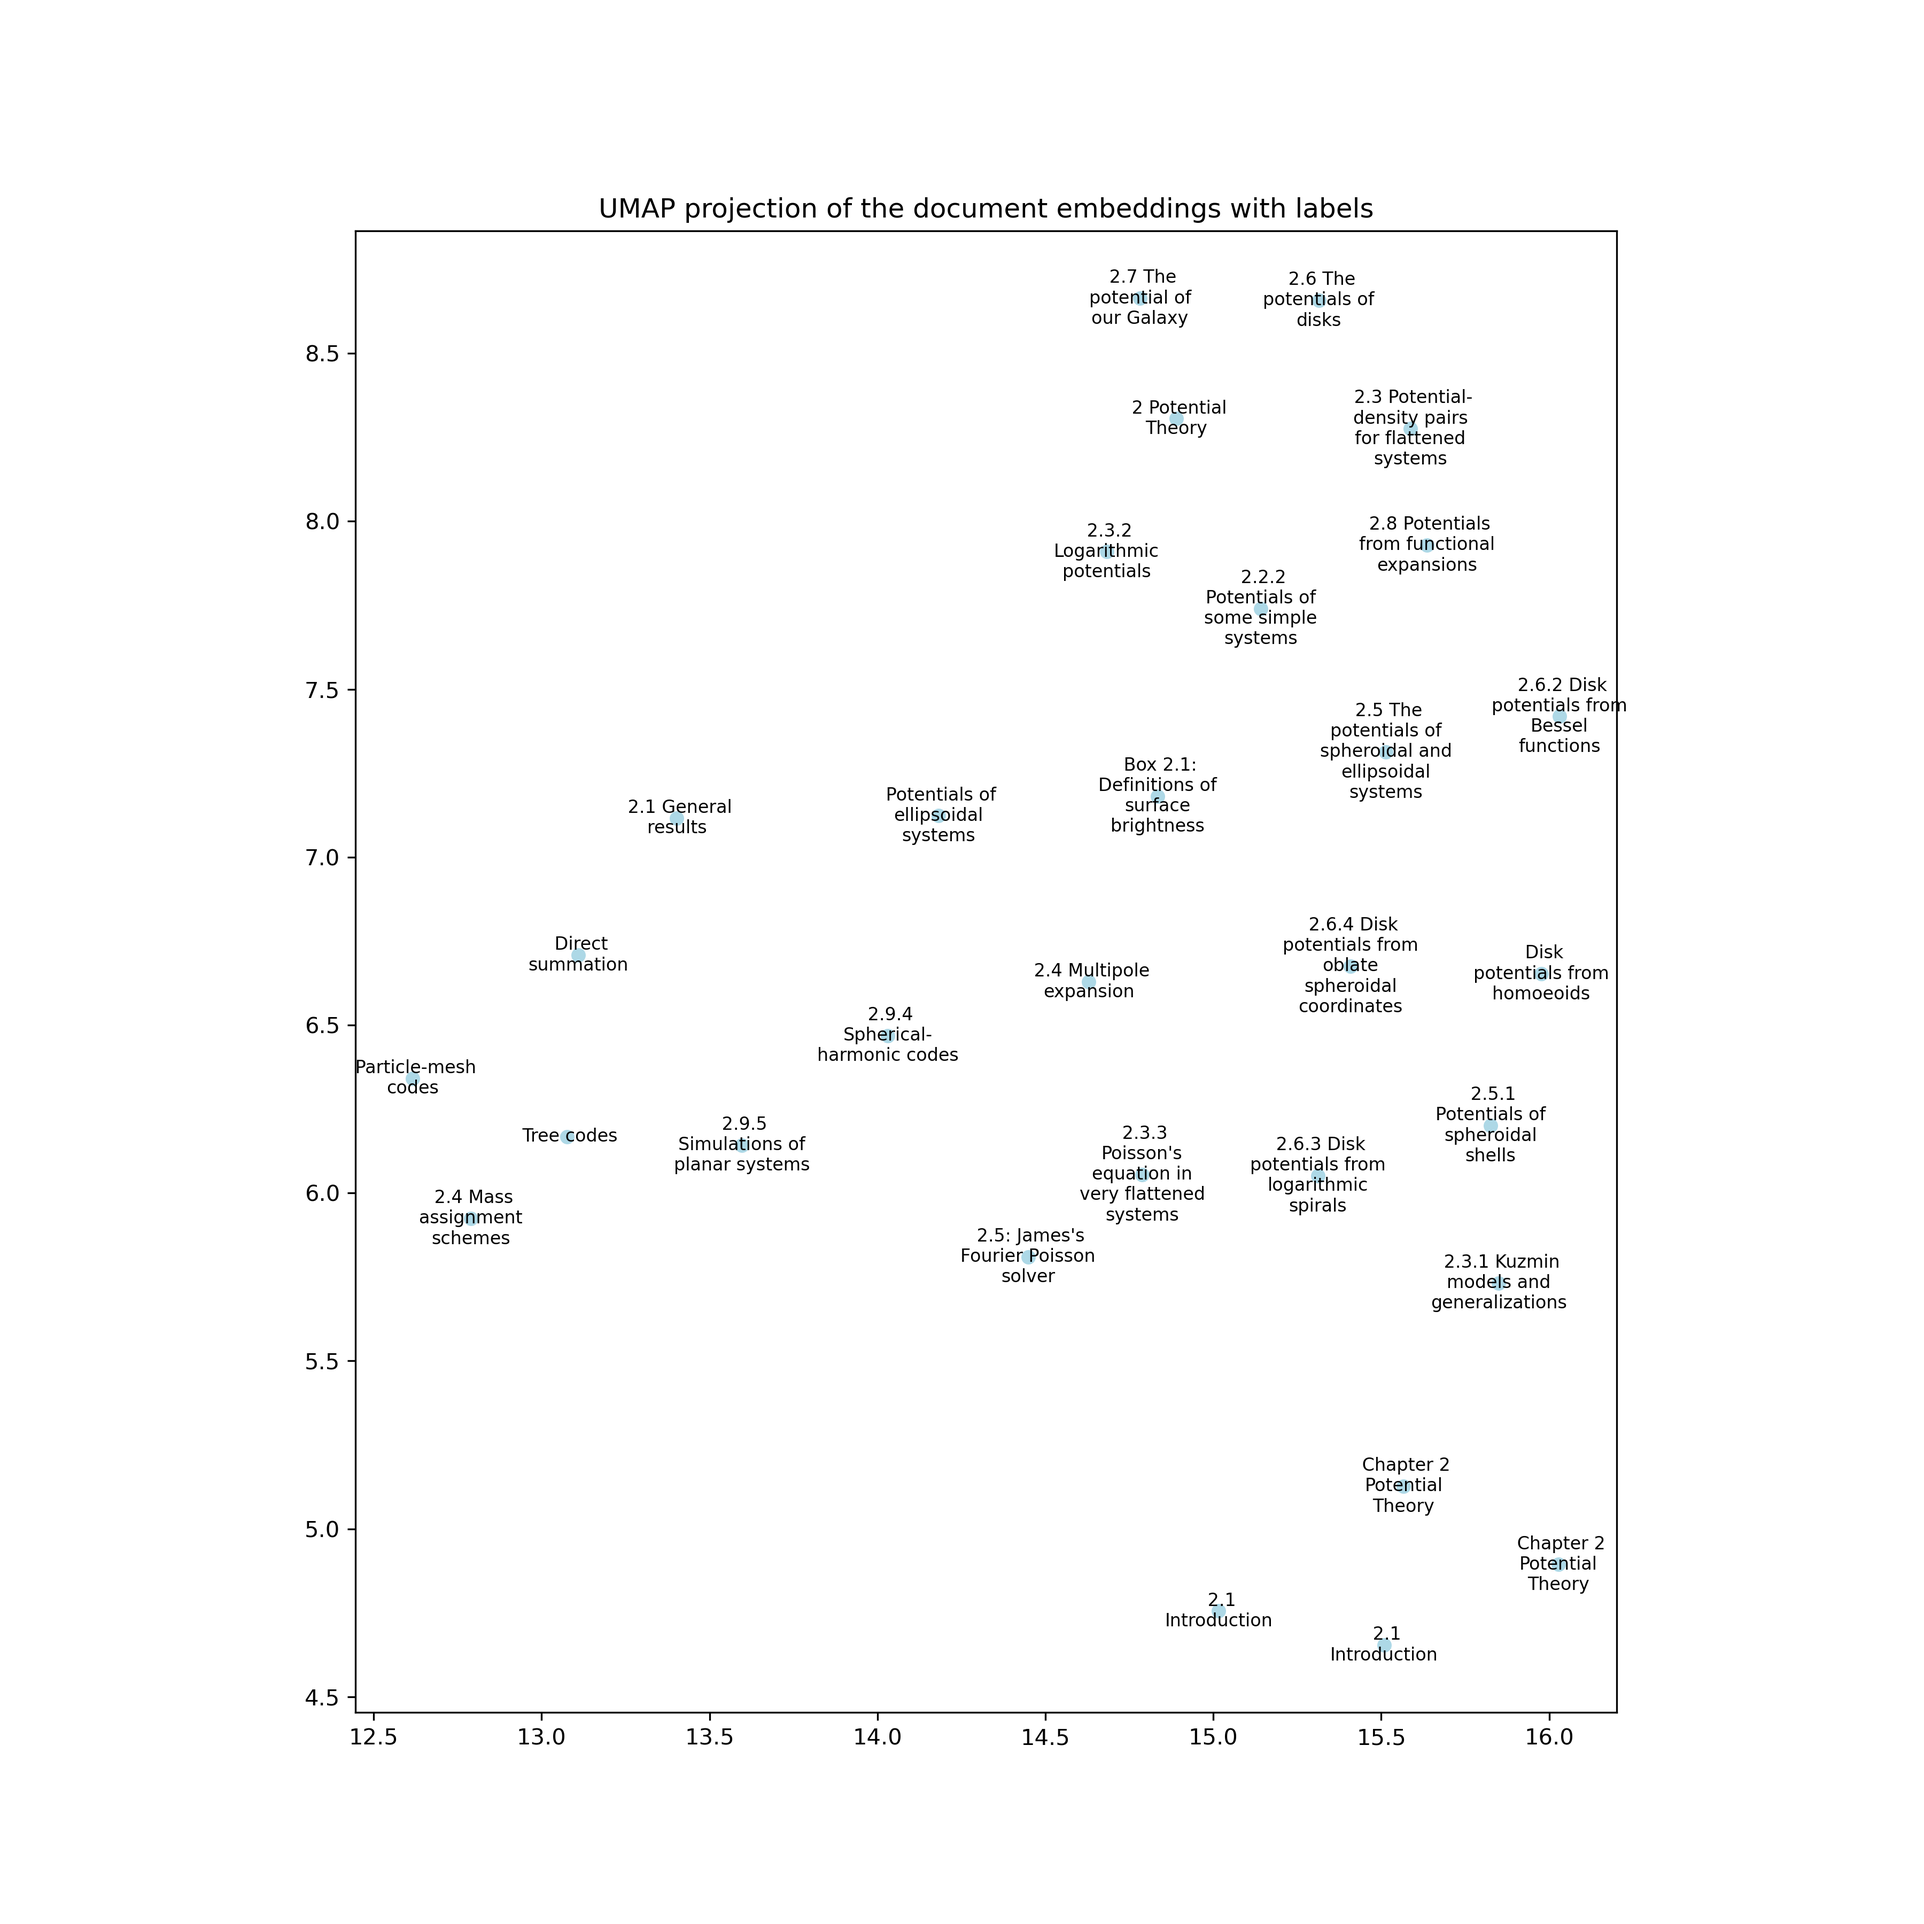
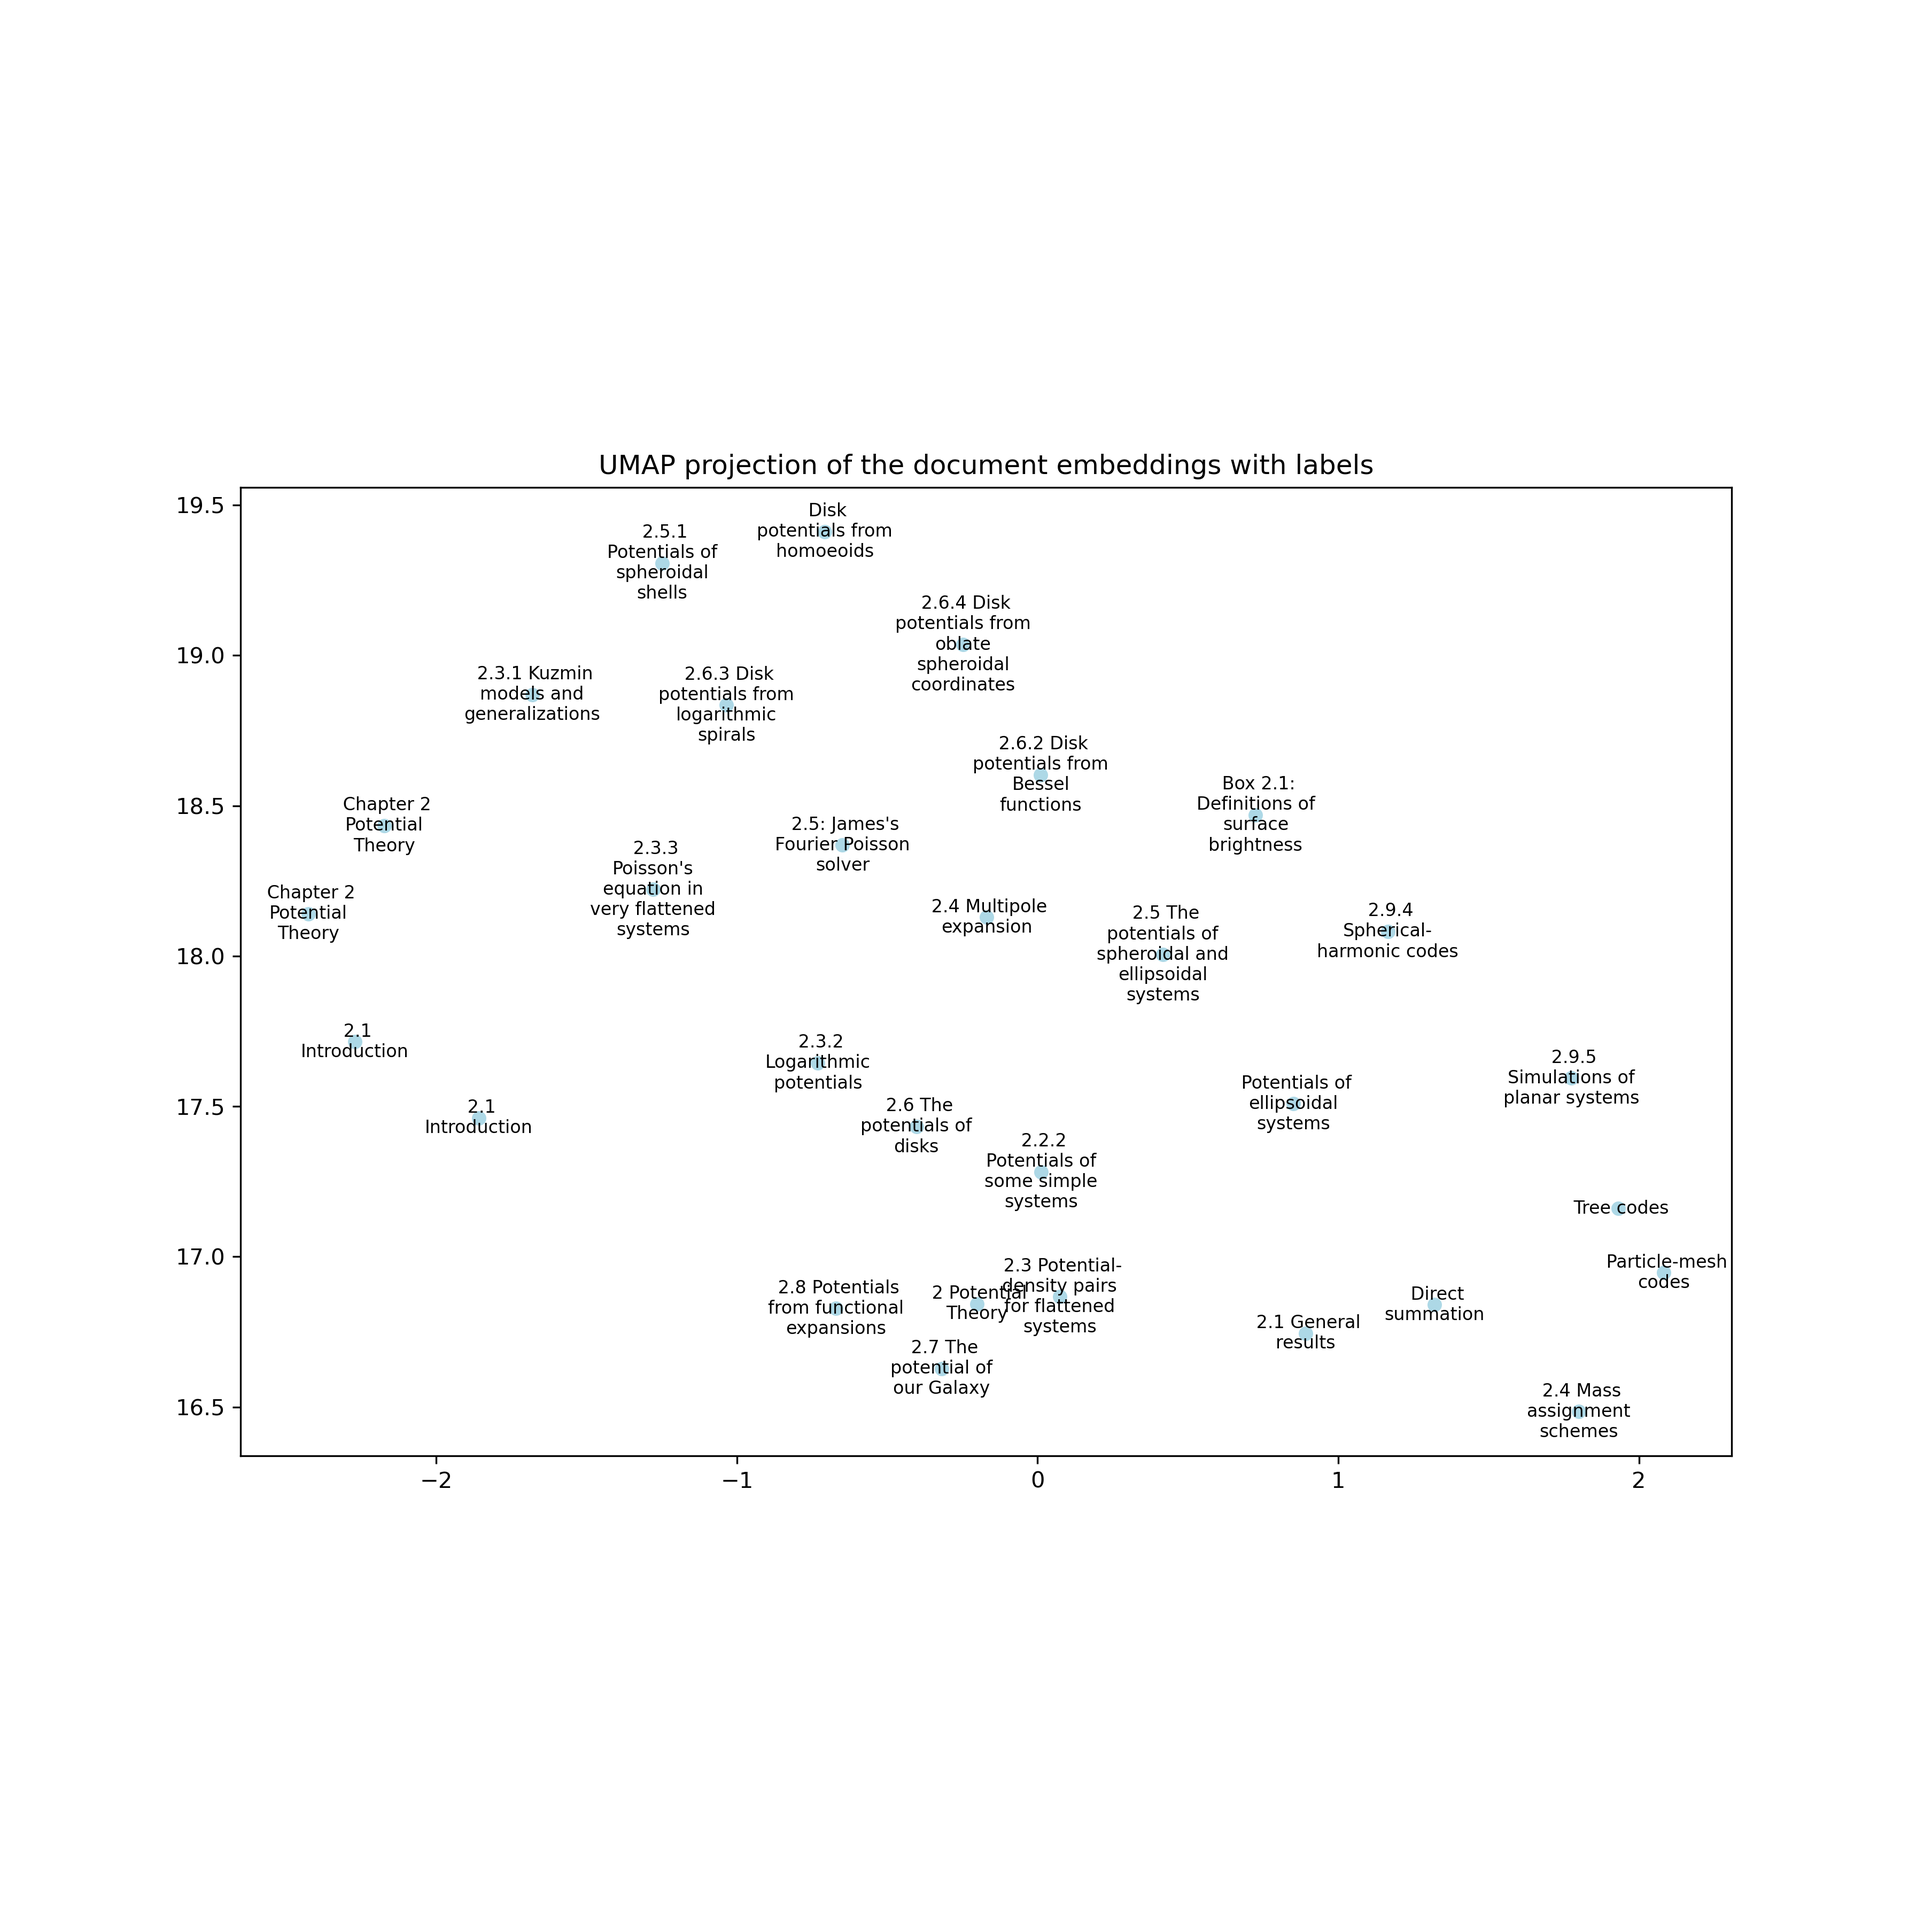
update

diff --git a/visualise_embedding.py b/visualise_embedding.py
@@ -47,18 +47,21 @@ chunk_overlap = 50
 with open(filename) as f:
     raw = f.read()
 
+# split into fixed size chunks
+'''
 chunks = []
 
 for i in range(0, len(raw), chunk_size):
     chunks.append(raw[i:i + chunk_size])
+    # use the most common word in the chunk as the label
+    labels = [most_common_word(chunk) for chunk in chunks]'''
 
-#chunks = raw.split('#')
+# split into chunks corresponding to sections
+chunks = raw.split('#')
 # remove empty chunks
 chunks = [chunk for chunk in chunks if chunk]
-
-# Get labels for each chunk
-labels = [most_common_word(chunk) for chunk in chunks]
-#labels = [chunk.split('\n')[0] for chunk in chunks]
+# use the first line of each chunk as the label
+labels = [chunk.split('\n')[0] for chunk in chunks]
 #print(labels[:10])  # print the first 10 labels for debugging
 
 
@@ -83,13 +86,13 @@ print('flat embedding shape:', flat_embeddings.embedding_.shape)
 plt.figure(figsize=(10, 10))
 plt.title('UMAP projection of the document embeddings')
 umap.plot.points(flat_embeddings)
-plt.savefig('work/plots/umap_projection_words.png', dpi=300)
+plt.savefig('work/plots/umap_projection_headings.png', dpi=300)
 
 fig, ax = plt.subplots(figsize=(12,12))
-ax.scatter(flat_embeddings.embedding_[:, 0], flat_embeddings.embedding_[:, 1], color='lightblue', alpha=0.4, s=30, edgecolors=None)
+ax.scatter(flat_embeddings.embedding_[:, 0], flat_embeddings.embedding_[:, 1], color='lightblue', alpha=1, s=30, edgecolors=None)
 ax.set_aspect('equal')
 # add a label for one in 10 points
-for i in range(0, flat_embeddings.embedding_.shape[0], 10):
+for i in range(0, flat_embeddings.embedding_.shape[0]):
     # Wrap the label to a maximum width (e.g., 15 characters per line)
     wrapped_label = "\n".join(textwrap.wrap(labels[i], width=15))
     ax.text(flat_embeddings.embedding_[i, 0],
@@ -101,4 +104,4 @@ for i in range(0, flat_embeddings.embedding_.shape[0], 10):
             verticalalignment='center',
            )
 plt.title('UMAP projection of the document embeddings with labels')
-plt.savefig('work/plots/umap_projection_words.png', dpi=300)
+plt.savefig('work/plots/umap_projection_headings_wrapped.png', dpi=300)
